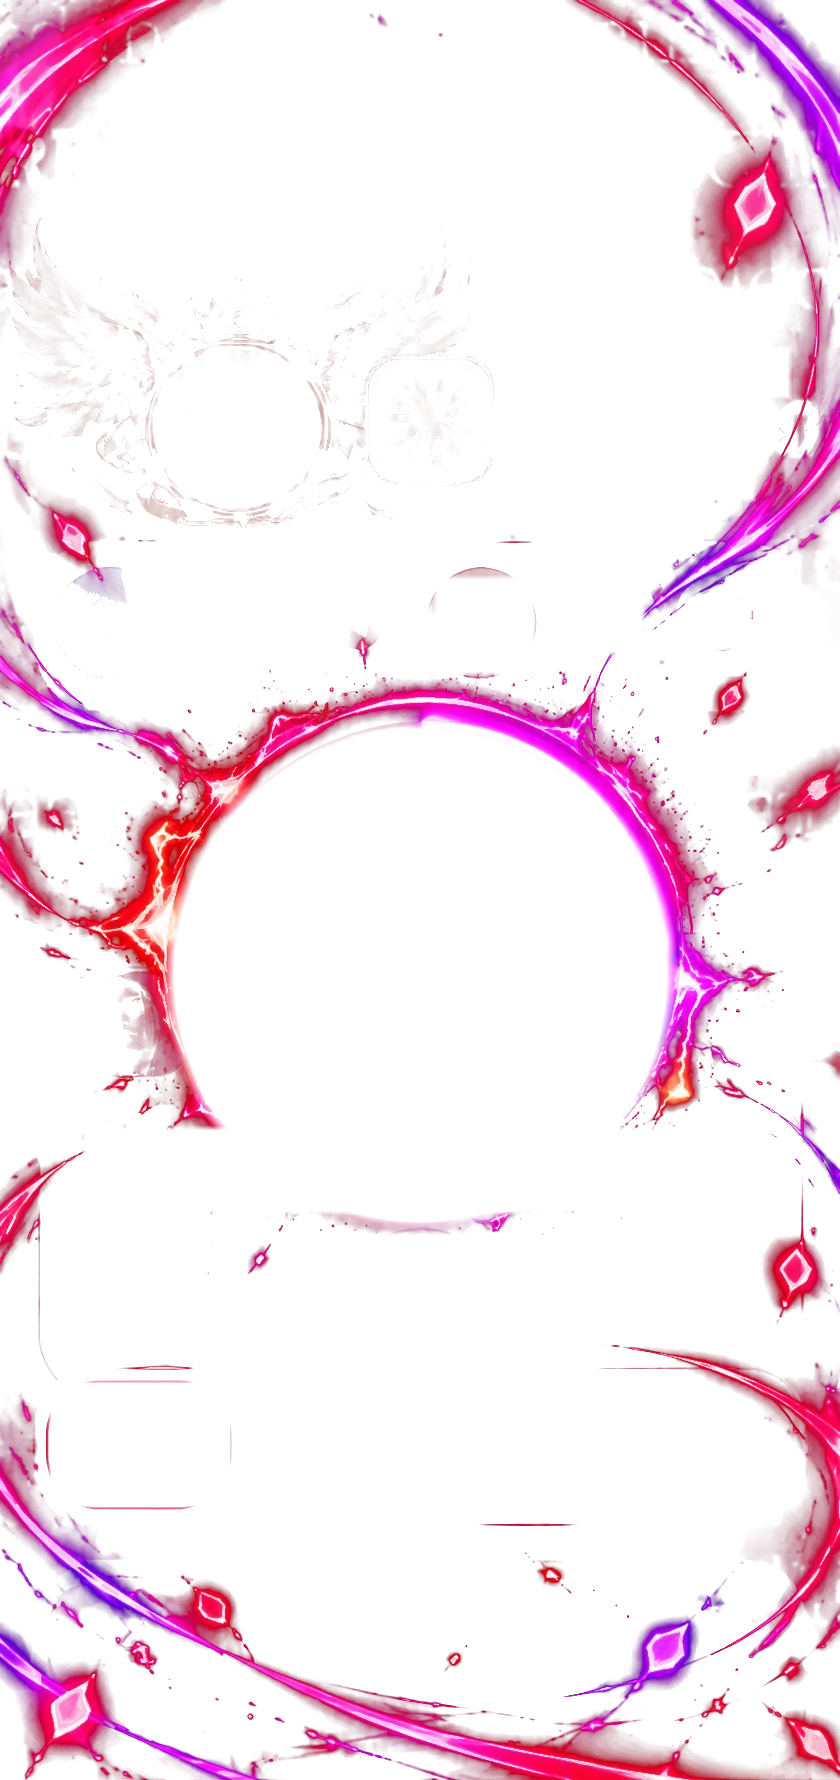
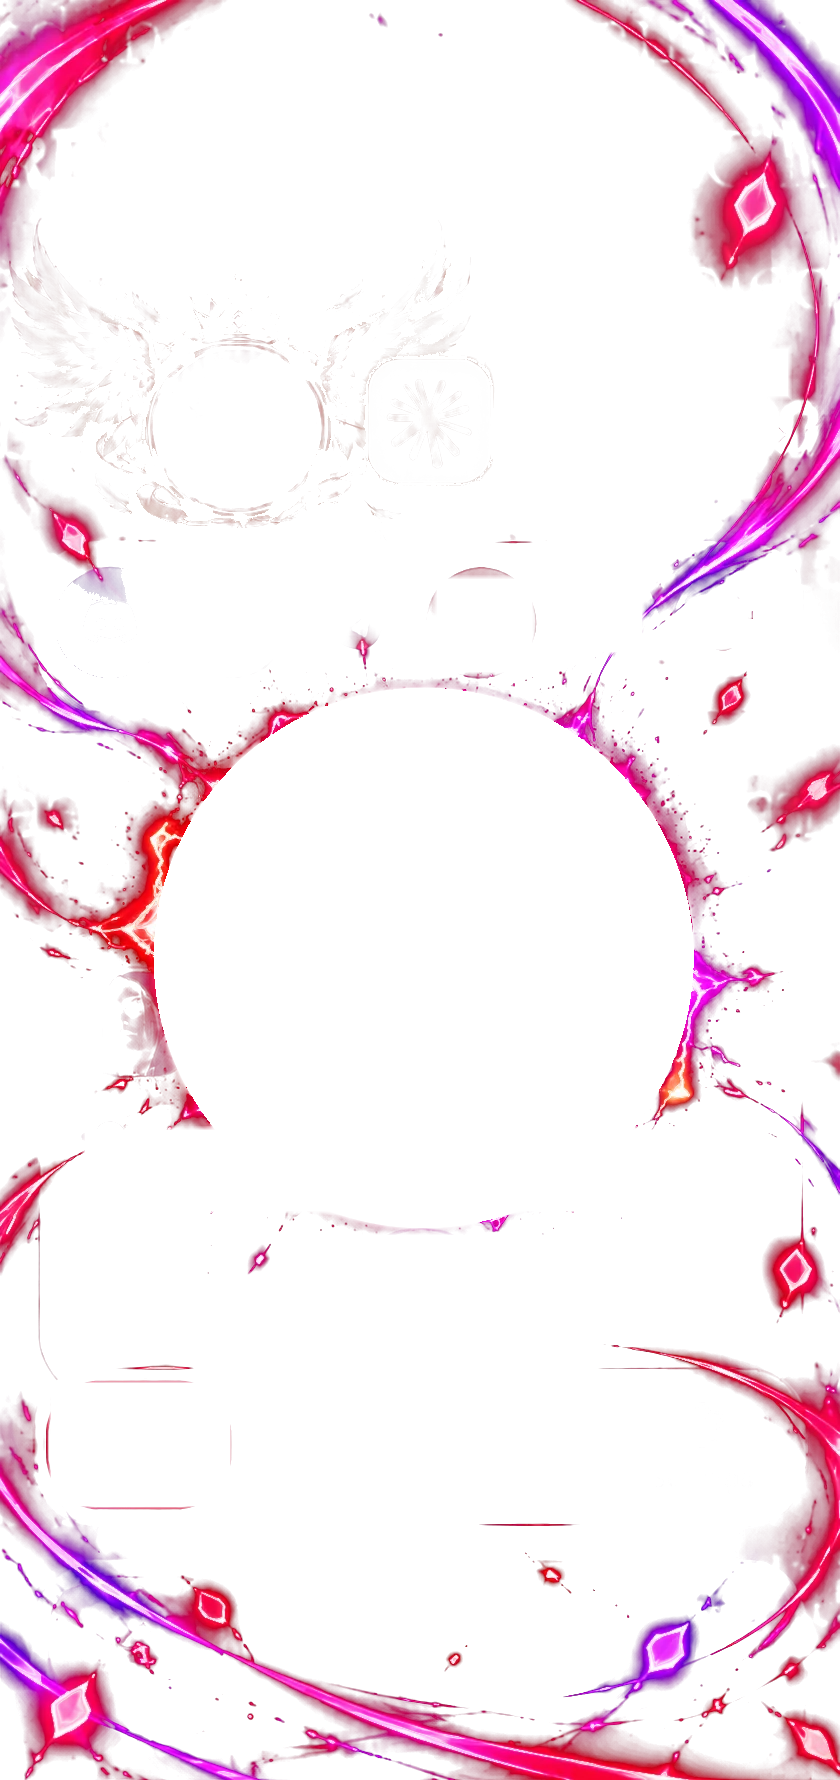
Charging ring: your picture's own ring, cut out on its exact centre
- The ring is now cut out of your picture (dark track, white outer
  line, glow, the coloured band) instead of drawn; the band is cut to
  the battery level and ends in the picture's round glowing end
- The picture's bolt; number and "Charging..." where the picture has
  them; 100% lights the whole ring
- The picture keeps its own shape on every screen; swirls layer
  re-cut around the true ring centre

Claude-Session: https://claude.ai/code/session_01EaKxjGrqHzTBpUYsJccRMV

Changed region(s): [[0.1857, 0.3708, 0.8357, 0.6489], [0.4024, 0.6798, 0.5881, 0.7107]]

diff --git a/website/index.html b/website/index.html
@@ -1374,15 +1374,17 @@ const CONFIG = {
          background: radial-gradient(circle at 50% 52%, rgba(110, 0, 40, .32), rgba(30, 0, 14, .66) 70%), rgba(12, 0, 6, .32); }
   #chg.on { display: block; }
   #chg.show { opacity: 1; }
-  /* the picture fills the app column; the live ring sits exactly in the hole the picture leaves (centre 50% / 54.8%, 58.6% of the width) */
+  /* the picture keeps its own shape (840 x 1780), centred in the app column; its ring's centre is at 50.381% / 53.787% of it,
+     which puts the ring 0.08024 x the column width below the middle of the screen. Ring layers: 556 px of the picture (66.19% of the width). */
   .chg-box { position: absolute; top: 0; bottom: 0; left: 50%; width: min(100vw, 440px); margin-left: calc(min(100vw, 440px) / -2); --bw: min(100vw, 440px); overflow: hidden; }
+  .chg-pic { position: absolute; left: 0; width: 100%; top: calc(50% - var(--bw) * 1.05952); height: calc(var(--bw) * 2.11905); }
   .chg-art, .chg-zap, .chg-shine-in { position: absolute; top: 0; right: 0; bottom: 0; left: 0; background: url("assets/charging-fx.webp") 0 0 / 100% 100% no-repeat; }
-  .chg-art { animation: chgBreath 3.2s ease-in-out infinite; transform-origin: 50% 54.8%; }
+  .chg-art { animation: chgBreath 3.2s ease-in-out infinite; transform-origin: 50.381% 53.787%; }
   @keyframes chgBreath { 0%, 100% { opacity: .86; transform: scale(1); } 50% { opacity: 1; transform: scale(1.012); } }
   /* the electricity round the ring crackles: a brighter copy of it, flickering */
   .chg-zap { filter: brightness(1.7) saturate(1.25); opacity: 0; animation: chgZap 1.1s steps(1) infinite;
-    -webkit-mask-image: radial-gradient(circle calc(var(--bw) * .44) at 50% 54.8%, rgba(0, 0, 0, 0) 64%, #000 68%, #000 86%, rgba(0, 0, 0, 0) 100%);
-    mask-image: radial-gradient(circle calc(var(--bw) * .44) at 50% 54.8%, rgba(0, 0, 0, 0) 64%, #000 68%, #000 86%, rgba(0, 0, 0, 0) 100%); }
+    -webkit-mask-image: radial-gradient(circle calc(var(--bw) * .44) at 50.381% 53.787%, rgba(0, 0, 0, 0) 71%, #000 75%, #000 88%, rgba(0, 0, 0, 0) 100%);
+    mask-image: radial-gradient(circle calc(var(--bw) * .44) at 50.381% 53.787%, rgba(0, 0, 0, 0) 71%, #000 75%, #000 88%, rgba(0, 0, 0, 0) 100%); }
   @keyframes chgZap { 0% { opacity: .9; transform: translate(.6px, -.4px); } 9% { opacity: 0; } 17% { opacity: .65; transform: translate(-.5px, .5px); } 23% { opacity: 0; }
                       41% { opacity: 1; transform: none; } 47% { opacity: .2; } 55% { opacity: .75; transform: translate(.4px, .6px); } 61% { opacity: 0; } 79% { opacity: .85; transform: translate(-.6px, 0); } 86% { opacity: 0; } }
   /* a band of light sweeping down through the swirls (a brighter copy seen through a moving window) */
@@ -1399,40 +1401,44 @@ const CONFIG = {
   @keyframes chgTw { 0%, 100% { opacity: 0; transform: scale(.4) rotate(0deg); } 45% { opacity: 1; transform: scale(1.1) rotate(45deg); } 70% { opacity: .2; transform: scale(.6) rotate(70deg); } }
   #chgfx { position: absolute; top: 0; left: 0; width: 100%; height: 100%; pointer-events: none; }
   @media (min-width: 600px) and (min-height: 600px) { .chg-box { top: 14px; bottom: 14px; width: 412px; margin-left: -206px; --bw: 412px; border-radius: 46px; } }
-  .chg-ring { --rs: calc(var(--bw) * .586); position: absolute; left: 50%; top: 54.8%; width: var(--rs); height: var(--rs); margin: calc(var(--rs) / -2) 0 0 calc(var(--rs) / -2);
+  /* the ring: your picture's own ring. As in the picture, the band's straight part stops 3.3% short of the level and a round end follows (78% = band to 74.7% + its round end to 76.5%) */
+  .chg-ring { --rs: calc(var(--bw) * .6619); position: absolute; width: var(--rs); height: var(--rs);
+              left: calc(var(--bw) * .50381 - var(--rs) / 2); top: calc(50% + var(--bw) * .08024 - var(--rs) / 2);
               transform: scale(.55); opacity: 0; transition: transform .8s cubic-bezier(.25, 1.5, .45, 1), opacity .35s ease, --lv 1.6s cubic-bezier(.3, .7, .2, 1); }
   #chg.show .chg-ring { transform: none; opacity: 1; }
-  .chg-ring > i { position: absolute; top: 0; right: 0; bottom: 0; left: 0; border-radius: 50%; }
-  .chg-track { background: radial-gradient(closest-side, rgba(0, 0, 0, 0) 79%, rgba(110, 10, 50, .75) 80%, rgba(70, 4, 36, .75) 95%, rgba(0, 0, 0, 0) 96%); }
-  /* the coloured band (magenta at the top → purple on the right → pink → red on the left), cut to the battery level */
-  .chg-band {
-    position: absolute; top: 0; right: 0; bottom: 0; left: 0; border-radius: 50%;
-    background: conic-gradient(from 0deg, #ff3df2 0%, #d24dff 12%, #a43dff 26%, #8b33ff 38%, #b03dff 49%, #ff3dc4 60%, #ff2d86 69%, #ff2d5c 80%, #ff4d6d 90%, #ff2d55 100%);
-    -webkit-mask: conic-gradient(#000 calc(var(--lv) * 1%), rgba(0, 0, 0, 0) 0), radial-gradient(closest-side, rgba(0, 0, 0, 0) 79%, #000 80%, #000 95%, rgba(0, 0, 0, 0) 96%);
-    -webkit-mask-composite: source-in;
-    mask: conic-gradient(#000 calc(var(--lv) * 1%), rgba(0, 0, 0, 0) 0), radial-gradient(closest-side, rgba(0, 0, 0, 0) 79%, #000 80%, #000 95%, rgba(0, 0, 0, 0) 96%);
-    mask-composite: intersect;
-  }
-  .chg-arc { filter: saturate(1.2) brightness(1.08); }
-  /* its neon glow: the same band, blurred (the blur sits on the wrapper, so it spreads beyond the band) */
-  .chg-glow { filter: blur(7px); opacity: 1; }
-  .chg-glow.g2 { filter: blur(22px); opacity: .9; transform: scale(1.04); }
-  .chg-edge { top: 1.5%; right: 1.5%; bottom: 1.5%; left: 1.5%; border: 1.5px solid rgba(255, 190, 240, .7); box-shadow: 0 0 8px rgba(255, 70, 210, .7), inset 0 0 8px rgba(255, 70, 210, .4); }
-  .chg-edge.in { top: 11.5%; right: 11.5%; bottom: 11.5%; left: 11.5%; border-width: 1px; border-color: rgba(255, 150, 210, .45); box-shadow: 0 0 6px rgba(255, 60, 160, .45); }
-  .chg-cap { transform: rotate(calc(var(--lv) * 3.6deg)); }
-  .chg-cap > i { position: absolute; left: 50%; top: -1.5%; width: 15%; height: 15%; margin-left: -7.5%; border-radius: 50%;
-                 background: radial-gradient(circle, #fff 0 22%, rgba(255, 225, 245, .95) 34%, rgba(255, 90, 190, .45) 55%, rgba(255, 80, 180, 0) 72%); }
-  .chg-disc { position: absolute; top: 12.5%; right: 12.5%; bottom: 12.5%; left: 12.5%; border-radius: 50%; display: flex; flex-direction: column; align-items: center; justify-content: center;
-              background: radial-gradient(circle at 50% 38%, #25050f, #0a0108 72%); box-shadow: inset 0 0 24px rgba(255, 40, 110, .42), 0 0 0 1px rgba(255, 110, 170, .3); }
-  .chg-bolt { width: 27%; height: auto; fill: #ff2d55; filter: drop-shadow(0 0 5px rgba(255, 50, 90, 1)) drop-shadow(0 0 16px rgba(255, 30, 100, .75)); animation: chgBolt 1.3s ease-in-out infinite; }
-  @keyframes chgBolt { 0%, 100% { transform: scale(1); opacity: .9; } 50% { transform: scale(1.12); opacity: 1; } }
-  #chgPct { margin-top: 4%; font-size: calc(var(--rs) * .19); font-weight: 600; line-height: 1.05; color: #fff; letter-spacing: -.01em; font-variant-numeric: tabular-nums; text-shadow: 0 0 14px rgba(255, 60, 140, .55); }
-  .chg-txt { margin-top: 3%; font-size: calc(var(--rs) * .074); font-weight: 600; color: #ff5c8a; text-shadow: 0 0 8px rgba(255, 40, 100, .5); }
+  .chg-ring > i, .chg-glow > i { position: absolute; top: 0; right: 0; bottom: 0; left: 0; }
+  .chg-ring > .chg-hole { top: 22.3%; right: 22.3%; bottom: 22.3%; left: 22.3%; border-radius: 50%; background: #0e0003; }
+  .chg-track { background: url("assets/charging-track.webp") 0 0 / 100% 100% no-repeat; }
+  .chg-fill, .chg-capi { background: url("assets/charging-ring.webp") 0 0 / 100% 100% no-repeat; }
+  .chg-fill { -webkit-mask-image: conic-gradient(#000 calc(var(--lv) * 1% - 3.3%), rgba(0, 0, 0, 0) 0); mask-image: conic-gradient(#000 calc(var(--lv) * 1% - 3.3%), rgba(0, 0, 0, 0) 0); }
+  /* the band breathes: a soft neon bloom of itself, pulsing */
+  .chg-glow { filter: blur(calc(var(--rs) * .03)); opacity: 0; animation: chgGlow 2.6s ease-in-out infinite; }
+  @keyframes chgGlow { 0%, 100% { opacity: 0; } 50% { opacity: .55; } }
+  /* fully charged: the whole ring, no end */
+  .chg-fill.chg-full { -webkit-mask-image: none; mask-image: none; opacity: 0; transition: opacity .7s ease; }
+  #chg.full .chg-full { opacity: 1; }
+  /* the band's round end: a round window on the band (the band seen through it, standing still) carried round to the level */
+  .chg-capw { transform: rotate(calc((var(--lv) - 3.3) * 3.6deg)); opacity: clamp(0, calc(var(--lv) - 3.6), 1); transition: visibility .7s; }
+  #chg.full .chg-capw { visibility: hidden; }
+  .chg-capd { position: absolute; left: 45.41%; top: 4.68%; width: 9.17%; height: 9.17%; border-radius: 50%; overflow: hidden; }
+  .chg-capi { position: absolute; left: -495.1%; top: -50.98%; width: 1090.2%; height: 1090.2%; transform: rotate(calc((var(--lv) - 3.3) * -3.6deg)); }
+  /* its lit, glossy face (as in the picture), glowing brighter and softer */
+  .chg-capd::after { content: ""; position: absolute; top: 0; right: 0; bottom: 0; left: 0; border-radius: 50%; animation: chgGlare 1.5s ease-in-out infinite;
+                     background: radial-gradient(circle at 80% 44%, rgba(255, 246, 250, .92) 0 10%, rgba(255, 196, 218, .62) 34%, rgba(255, 150, 190, 0) 62%); }
+  @keyframes chgGlare { 0%, 100% { opacity: .62; } 50% { opacity: 1; } }
+  /* the middle: the picture's bolt; the number and "Charging..." where the picture has them */
+  .chg-disc { position: absolute; top: 0; right: 0; bottom: 0; left: 0; pointer-events: none; text-align: center; }
+  .chg-bolt { position: absolute; left: 41.33%; top: 22.59%; width: 17.99%; height: 25.18%; background: url("assets/charging-bolt.webp") 0 0 / 100% 100% no-repeat; animation: chgBolt 1.6s ease-in-out infinite; }
+  @keyframes chgBolt { 0%, 100% { transform: scale(1); opacity: .88; } 50% { transform: scale(1.07); opacity: 1; } }
+  #chgPct { position: absolute; left: 0; right: 0; top: 54.4%; transform: translateY(-50%); font-family: Roboto, "Noto Sans", system-ui, sans-serif; font-size: calc(var(--rs) * .1594); font-weight: 400; line-height: 1;
+            color: #fff; letter-spacing: 0; font-variant-numeric: tabular-nums; text-shadow: 0 0 10px rgba(255, 30, 70, .85), 0 0 26px rgba(255, 20, 60, .55); }
+  .chg-txt { position: absolute; left: 0; right: 0; top: 67.3%; transform: translateY(-50%); font-family: Roboto, "Noto Sans", system-ui, sans-serif; font-size: calc(var(--rs) * .0547); font-weight: 400; line-height: 1.2;
+             color: #ff6f9c; text-shadow: 0 0 8px rgba(255, 40, 100, .55); white-space: nowrap; }
   .chg-txt i { font-style: normal; animation: chgDot 1.4s steps(1) infinite; }
   .chg-txt i:nth-child(3) { animation-delay: .25s; } .chg-txt i:nth-child(4) { animation-delay: .5s; }
   @keyframes chgDot { 0%, 15% { opacity: 0; } 16%, 100% { opacity: 1; } }
-  .app-bg #chg * { animation-play-state: paused !important; }
-  .nofx #chgfx, .ultra #chgfx, .nofx .chg-tw, .ultra .chg-tw, .ultra .chg-shine, .ultra .chg-zap { display: none; }
+  .app-bg #chg *, .app-bg #chg *::after { animation-play-state: paused !important; }
+  .nofx #chgfx, .ultra #chgfx, .nofx .chg-tw, .ultra .chg-tw, .ultra .chg-shine, .ultra .chg-zap, .ultra .chg-glow { display: none; }
   @media (prefers-reduced-motion: reduce) { #chg *, #chg *::after { animation: none !important; } #chgfx { display: none; } }
 
   @media (prefers-reduced-motion: reduce) {
@@ -2022,18 +2028,23 @@ const CONFIG = {
   <!-- the charger: plugged in = a full-screen charging animation until it is unplugged (the app tells the page; a browser's Battery API too) -->
   <div id="chg" role="status" aria-live="polite" aria-hidden="true">
     <div class="chg-box">
-      <!-- your picture's neon swirls, diamonds and electricity (assets/charging-fx.webp): breathing, a light sweeping through it, the electricity flickering -->
-      <div class="chg-art"></div><div class="chg-zap"></div><div class="chg-shine"><div class="chg-shine-in"></div></div>
-      <i class="chg-tw" style="--x:89.5%;--y:11.5%;--d:-0.0s"></i><i class="chg-tw" style="--x:8.3%;--y:30.4%;--d:-0.5s"></i><i class="chg-tw" style="--x:86.9%;--y:38.9%;--d:-1.1s"></i><i class="chg-tw" style="--x:96.7%;--y:44.4%;--d:-1.6s"></i><i class="chg-tw" style="--x:94.6%;--y:71.2%;--d:-2.1s"></i><i class="chg-tw" style="--x:25.2%;--y:90.3%;--d:-0.1s"></i><i class="chg-tw" style="--x:79.2%;--y:92.4%;--d:-0.6s"></i><i class="chg-tw" style="--x:8.3%;--y:95.5%;--d:-1.1s"></i><i class="chg-tw" style="--x:96.7%;--y:96.4%;--d:-1.6s"></i><i class="chg-tw" style="--x:17.3%;--y:92.6%;--d:-2.2s"></i>
-      <canvas id="chgfx"></canvas>
-    <div class="chg-ring">
-      <i class="chg-glow g2"><i class="chg-band"></i></i><i class="chg-glow"><i class="chg-band"></i></i><i class="chg-track"></i><i class="chg-band chg-arc"></i><i class="chg-edge"></i><i class="chg-edge in"></i><i class="chg-cap"><i></i></i>
-      <div class="chg-disc">
-        <svg class="chg-bolt" viewBox="0 0 24 24" aria-hidden="true"><path d="M13.6 1.6 4.4 13.5h6.4l-1.5 8.9 9.3-12.3h-6.4z"/></svg>
-        <b id="chgPct">0%</b>
-        <span class="chg-txt"><span id="chgTxt">Charging</span><i>.</i><i>.</i><i>.</i></span>
+      <!-- your picture, kept in its own shape: neon swirls, diamonds and electricity (assets/charging-fx.webp) breathing, a light sweeping through, the electricity flickering -->
+      <div class="chg-pic">
+        <div class="chg-art"></div><div class="chg-zap"></div><div class="chg-shine"><div class="chg-shine-in"></div></div>
+        <i class="chg-tw" style="--x:89.5%;--y:11.5%;--d:-0.0s"></i><i class="chg-tw" style="--x:8.3%;--y:30.4%;--d:-0.5s"></i><i class="chg-tw" style="--x:86.9%;--y:38.9%;--d:-1.1s"></i><i class="chg-tw" style="--x:96.7%;--y:44.4%;--d:-1.6s"></i><i class="chg-tw" style="--x:94.6%;--y:71.2%;--d:-2.1s"></i><i class="chg-tw" style="--x:25.2%;--y:90.3%;--d:-0.1s"></i><i class="chg-tw" style="--x:79.2%;--y:92.4%;--d:-0.6s"></i><i class="chg-tw" style="--x:8.3%;--y:95.5%;--d:-1.1s"></i><i class="chg-tw" style="--x:96.7%;--y:96.4%;--d:-1.6s"></i><i class="chg-tw" style="--x:17.3%;--y:92.6%;--d:-2.2s"></i>
       </div>
-    </div>
+      <canvas id="chgfx"></canvas>
+      <!-- your picture's ring (cut out of it): the empty ring, the coloured band cut to the battery level, its round glowing end -->
+      <div class="chg-ring">
+        <i class="chg-hole"></i><i class="chg-track"></i>
+        <i class="chg-glow"><i class="chg-fill"></i></i><i class="chg-fill"></i><i class="chg-fill chg-full"></i>
+        <i class="chg-capw"><i class="chg-capd"><i class="chg-capi"></i></i></i>
+        <div class="chg-disc">
+          <i class="chg-bolt"></i>
+          <b id="chgPct">0%</b>
+          <span class="chg-txt"><span id="chgTxt">Charging</span><i>.</i><i>.</i><i>.</i></span>
+        </div>
+      </div>
     </div>
   </div>
   <!-- the phone's volume buttons show this (instead of the phone's own pop-up); above the intro too -->
@@ -3586,32 +3597,39 @@ const CONFIG = {
   /* =====================================================================
      CHARGING: plug the charger in (the app tells the page with window.appCharging; a browser's Battery API works too) →
      a full-screen charging animation that stays until the charger is unplugged (the back button can close it early).
-     The ring fills to the battery level; around it your picture's neon swirls, diamonds and electricity (assets/charging-fx.webp)
-     breathe, flicker and twinkle (CSS); the canvas throws sparks off the ring.
+     The ring is your picture's own ring (charging-track / charging-ring.webp), its band cut to the battery level with a round glowing end;
+     around it your picture's neon swirls, diamonds and electricity (charging-fx.webp) breathe, flicker and twinkle (CSS);
+     the canvas throws sparks off the band's end and the band.
      ===================================================================== */
   var chg = { el: $("chg"), cv: $("chgfx"), ring: qa("#chg .chg-ring")[0], g: null, on: false, raf: 0, last: 0, acc: 0, t: 0, offT: 0, level: -1, shown: 0, from: 0,
               W: 0, H: 0, k: 1, cx: 0, cy: 0, R: 0, spr: null, sparks: [] };
-  (function () { var im = new Image(); im.decoding = "async"; setTimeout(function () { im.src = "assets/charging-fx.webp"; }, 4000); chg.art = im; })();   // ready before the first plug-in
+  chg.art = [];
+  setTimeout(function () {                                  // ready before the first plug-in
+    ["charging-fx", "charging-track", "charging-ring", "charging-bolt"].forEach(function (n) { var im = new Image(); im.decoding = "async"; im.src = "assets/" + n + ".webp"; chg.art.push(im); });
+  }, 4000);
   function chgSprite(rgb) {                                 // one glowing spark (drawn once)
     var c = document.createElement("canvas"), x = c.getContext("2d"); c.width = c.height = 64;
     var g = x.createRadialGradient(32, 32, 0, 32, 32, 32);
     g.addColorStop(0, "rgba(255,255,255,1)"); g.addColorStop(.18, "rgba(" + rgb + ",1)"); g.addColorStop(.45, "rgba(" + rgb + ",.35)"); g.addColorStop(1, "rgba(" + rgb + ",0)");
     x.fillStyle = g; x.fillRect(0, 0, 64, 64); return c;
   }
-  function chgSize() {                                      // the canvas covers the picture; the ring's centre + radius (offset sizes: not affected by its pop-in scale)
+  function chgSize() {                                      // the canvas covers the screen; the band's centre + radius (offset sizes: not affected by the ring's pop-in scale)
     var box = chg.cv.parentNode, W = box.clientWidth, H = box.clientHeight, rg = chg.ring;
     chg.k = Math.min(window.devicePixelRatio || 1, isLite() ? 1.25 : 1.5);
     chg.cv.width = Math.round(W * chg.k); chg.cv.height = Math.round(H * chg.k); chg.W = W; chg.H = H; chg.g = chg.cv.getContext("2d");
-    chg.R = rg.offsetWidth / 2; chg.cx = rg.offsetLeft + chg.R; chg.cy = rg.offsetTop + chg.R;
+    chg.cx = rg.offsetLeft + rg.offsetWidth / 2; chg.cy = rg.offsetTop + rg.offsetWidth / 2;
+    chg.R = rg.offsetWidth / 2 * 226.5 / 278; chg.bw = rg.offsetWidth / 2 * 25 / 278;   // the band: middle radius, half its width
     if (!chg.spr) chg.spr = ["255,90,170", "255,70,60", "200,90,255"].map(chgSprite);
   }
-  function chgDraw(dt) {                                    // sparks fly off the ring: red-orange on the left, pink-violet on the right
-    var g = chg.g, i, want = isLite() ? 34 : 50;
+  function chgDraw(dt) {                                    // sparks: most fly off the band's glowing end, some off the band; red-orange on the left, pink-violet on the right
+    var g = chg.g, i, want = isLite() ? 34 : 50, lv = Math.max(0, chg.shown) / 100;
     g.setTransform(chg.k, 0, 0, chg.k, 0, 0); g.clearRect(0, 0, chg.W, chg.H); g.globalCompositeOperation = "lighter";
-    for (i = 0; i < 3 && chg.sparks.length < want; i++) {
-      var an = Math.random() * Math.PI * 2, sp = 30 + Math.random() * 120, left = Math.cos(an) < 0;
-      chg.sparks.push({ x: chg.cx + Math.cos(an) * chg.R, y: chg.cy + Math.sin(an) * chg.R, vx: Math.cos(an) * sp, vy: Math.sin(an) * sp, life: 0, max: .4 + Math.random() * .8,
-                        s: 3 + Math.random() * 8, c: left ? (Math.random() < .5 ? 1 : 0) : (Math.random() < .5 ? 2 : 0) });
+    for (i = 0; i < 3 && chg.sparks.length < want && lv > .04; i++) {
+      var tip = Math.random() < .55, f = tip ? lv - .02 + Math.random() * .008 : Math.random() * (lv - .02),            // where on the ring (0 = top, clockwise)
+          an = f * Math.PI * 2 - Math.PI / 2, r = chg.R + (Math.random() * 2 - 1) * chg.bw,
+          out = an + (Math.random() - .5) * 1.4, sp = (tip ? 50 : 25) + Math.random() * (tip ? 140 : 90), left = Math.cos(an) < 0;
+      chg.sparks.push({ x: chg.cx + Math.cos(an) * r, y: chg.cy + Math.sin(an) * r, vx: Math.cos(out) * sp, vy: Math.sin(out) * sp, life: 0, max: .35 + Math.random() * (tip ? .7 : .5),
+                        s: (tip ? 4 : 3) + Math.random() * (tip ? 9 : 6), c: left ? (Math.random() < .5 ? 1 : 0) : (Math.random() < .5 ? 2 : 0) });
     }
     for (i = chg.sparks.length - 1; i >= 0; i--) {
       var p = chg.sparks[i]; p.life += dt;
@@ -3644,6 +3662,7 @@ const CONFIG = {
     chg.ring.style.setProperty("--lv", pct);
     if (!chg.raf || chg.t > 1.5) { chg.shown = pct; $("chgPct").textContent = pct + "%"; }
     $("chgTxt").textContent = pct >= 100 ? "Fully charged" : "Charging";
+    chg.el.classList.toggle("full", pct >= 100);
   }
   function chgShow(level) {
     if (level >= 0) chg.level = level;
